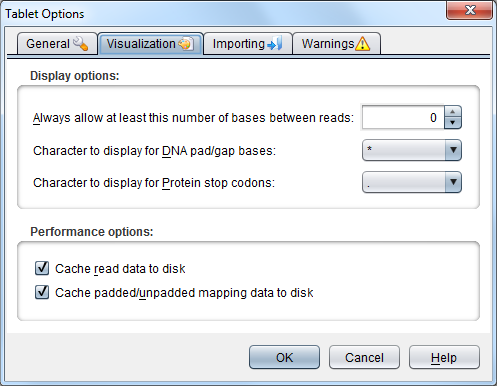
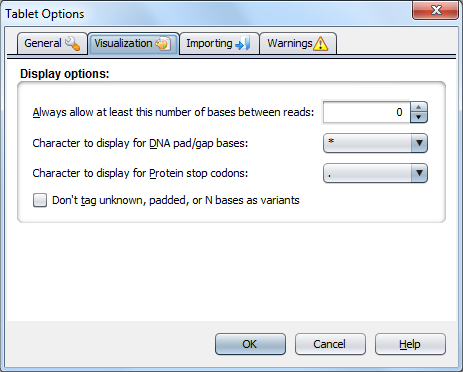
- NEW: Added a new option (in the Options dialog) to allow the user to switch off variant tagging/highlighting for unknown, padded, or N bases. - NEW: Updated the help documentation for the Tablet Options to include details on this new option and also to refresh the screenshots.

Changed region(s): [[0.0, 0.0, 0.9978, 0.9758], [0.4536, 0.8871, 0.9676, 0.9758]]

diff --git a/src/tablet/gui/dialog/prefs/VisualizationTabNB.java b/src/tablet/gui/dialog/prefs/VisualizationTabNB.java
@@ -28,6 +28,7 @@ class VisualizationTabNB extends JPanel
 		RB.setText(dnaLabel, "gui.dialog.prefs.NBVisualizationPanel.dnaLabel");
 		RB.setText(proteinLabel, "gui.dialog.prefs.NBVisualizationPanel.proteinLabel");
 		RB.setText(padLabel, "gui.dialog.prefs.NBVisualizationPanel.padLabel");
+		RB.setText(tagCheckbox, "gui.dialog.prefs.NBVisualizationPanel.tagCheckbox");
 
 		dnaModel = new DefaultComboBoxModel<String>();
         dnaModel.addElement("*");
@@ -43,17 +44,8 @@ class VisualizationTabNB extends JPanel
 
 		padSpinner.getModel().setValue(Prefs.visPadReads);
 
-
-		// Bottom panel
-		panel2.setBackground(Color.white);
-		panel2.setBorder(BorderFactory.createTitledBorder(RB.getString("gui.dialog.prefs.NBVisualizationPanel.panel2Title")));
-
-		RB.setText(cacheReads, "gui.dialog.prefs.NBVisualizationPanel.cacheReads");
-		RB.setText(cacheMappings, "gui.dialog.prefs.NBVisualizationPanel.cacheMappings");
-
-		cacheReads.setSelected(Prefs.cacheReads);
-		cacheMappings.setSelected(Prefs.cacheMappings);
-
+		tagCheckbox.setSelected(Prefs.visNeverTagUnknownBases);
+		tagCheckbox.setBorder(BorderFactory.createEmptyBorder(0, -2, 0, 0));
     }
 
 	public void applySettings()
@@ -61,9 +53,7 @@ class VisualizationTabNB extends JPanel
 		Prefs.visPadCharType = dnaCombo.getSelectedIndex();
 		Prefs.visStopCharType = proteinCombo.getSelectedIndex();
 		Prefs.visPadReads = (Integer) padSpinner.getModel().getValue();
-
-		Prefs.cacheReads = cacheReads.isSelected();
-		Prefs.cacheMappings = cacheMappings.isSelected();
+		Prefs.visNeverTagUnknownBases = tagCheckbox.isSelected();
 
 		// This will force the visualization area to recreate its color schemes
 		// which will change the rendered characters to their new states
@@ -86,9 +76,7 @@ class VisualizationTabNB extends JPanel
         proteinCombo = new javax.swing.JComboBox<String>();
         padSpinner = new javax.swing.JSpinner();
         padLabel = new javax.swing.JLabel();
-        panel2 = new javax.swing.JPanel();
-        cacheReads = new javax.swing.JCheckBox();
-        cacheMappings = new javax.swing.JCheckBox();
+        tagCheckbox = new javax.swing.JCheckBox();
 
         panel1.setBorder(javax.swing.BorderFactory.createTitledBorder("Display options:"));
 
@@ -103,6 +91,8 @@ class VisualizationTabNB extends JPanel
         padLabel.setLabelFor(padSpinner);
         padLabel.setText("Allow at least the following base gap between reads:");
 
+        tagCheckbox.setText("Dont' tag unknown, padded, or N bases as variants");
+
         javax.swing.GroupLayout panel1Layout = new javax.swing.GroupLayout(panel1);
         panel1.setLayout(panel1Layout);
         panel1Layout.setHorizontalGroup(
@@ -110,58 +100,36 @@ class VisualizationTabNB extends JPanel
             .addGroup(panel1Layout.createSequentialGroup()
                 .addContainerGap()
                 .addGroup(panel1Layout.createParallelGroup(javax.swing.GroupLayout.Alignment.LEADING)
-                    .addComponent(padLabel)
-                    .addComponent(proteinLabel)
-                    .addComponent(dnaLabel))
-                .addPreferredGap(javax.swing.LayoutStyle.ComponentPlacement.RELATED)
-                .addGroup(panel1Layout.createParallelGroup(javax.swing.GroupLayout.Alignment.LEADING)
-                    .addComponent(proteinCombo, javax.swing.GroupLayout.Alignment.TRAILING, 0, 67, Short.MAX_VALUE)
-                    .addComponent(dnaCombo, javax.swing.GroupLayout.Alignment.TRAILING, 0, 67, Short.MAX_VALUE)
-                    .addComponent(padSpinner, javax.swing.GroupLayout.DEFAULT_SIZE, 67, Short.MAX_VALUE))
+                    .addComponent(tagCheckbox)
+                    .addGroup(panel1Layout.createSequentialGroup()
+                        .addGroup(panel1Layout.createParallelGroup(javax.swing.GroupLayout.Alignment.LEADING)
+                            .addComponent(padLabel)
+                            .addComponent(proteinLabel)
+                            .addComponent(dnaLabel))
+                        .addPreferredGap(javax.swing.LayoutStyle.ComponentPlacement.RELATED)
+                        .addGroup(panel1Layout.createParallelGroup(javax.swing.GroupLayout.Alignment.LEADING)
+                            .addComponent(padSpinner, javax.swing.GroupLayout.Alignment.TRAILING, javax.swing.GroupLayout.DEFAULT_SIZE, 105, Short.MAX_VALUE)
+                            .addComponent(dnaCombo, javax.swing.GroupLayout.Alignment.TRAILING, 0, 105, Short.MAX_VALUE)
+                            .addComponent(proteinCombo, javax.swing.GroupLayout.Alignment.TRAILING, 0, 105, Short.MAX_VALUE))))
                 .addContainerGap())
         );
         panel1Layout.setVerticalGroup(
             panel1Layout.createParallelGroup(javax.swing.GroupLayout.Alignment.LEADING)
             .addGroup(panel1Layout.createSequentialGroup()
                 .addContainerGap()
-                .addGroup(panel1Layout.createParallelGroup(javax.swing.GroupLayout.Alignment.BASELINE)
+                .addGroup(panel1Layout.createParallelGroup(javax.swing.GroupLayout.Alignment.CENTER)
                     .addComponent(padSpinner, javax.swing.GroupLayout.PREFERRED_SIZE, javax.swing.GroupLayout.DEFAULT_SIZE, javax.swing.GroupLayout.PREFERRED_SIZE)
                     .addComponent(padLabel))
                 .addPreferredGap(javax.swing.LayoutStyle.ComponentPlacement.RELATED)
-                .addGroup(panel1Layout.createParallelGroup(javax.swing.GroupLayout.Alignment.BASELINE)
-                    .addComponent(dnaLabel)
-                    .addComponent(dnaCombo, javax.swing.GroupLayout.PREFERRED_SIZE, javax.swing.GroupLayout.DEFAULT_SIZE, javax.swing.GroupLayout.PREFERRED_SIZE))
+                .addGroup(panel1Layout.createParallelGroup(javax.swing.GroupLayout.Alignment.CENTER)
+                    .addComponent(dnaCombo, javax.swing.GroupLayout.PREFERRED_SIZE, javax.swing.GroupLayout.DEFAULT_SIZE, javax.swing.GroupLayout.PREFERRED_SIZE)
+                    .addComponent(dnaLabel))
                 .addPreferredGap(javax.swing.LayoutStyle.ComponentPlacement.RELATED)
-                .addGroup(panel1Layout.createParallelGroup(javax.swing.GroupLayout.Alignment.BASELINE)
-                    .addComponent(proteinLabel)
-                    .addComponent(proteinCombo, javax.swing.GroupLayout.PREFERRED_SIZE, javax.swing.GroupLayout.DEFAULT_SIZE, javax.swing.GroupLayout.PREFERRED_SIZE))
-                .addContainerGap(javax.swing.GroupLayout.DEFAULT_SIZE, Short.MAX_VALUE))
-        );
-
-        panel2.setBorder(javax.swing.BorderFactory.createTitledBorder("Performance options:"));
-
-        cacheReads.setText("Cache read data to disk");
-
-        cacheMappings.setText("Cache padded/unpadded mapping data to disk");
-
-        javax.swing.GroupLayout panel2Layout = new javax.swing.GroupLayout(panel2);
-        panel2.setLayout(panel2Layout);
-        panel2Layout.setHorizontalGroup(
-            panel2Layout.createParallelGroup(javax.swing.GroupLayout.Alignment.LEADING)
-            .addGroup(panel2Layout.createSequentialGroup()
-                .addContainerGap()
-                .addGroup(panel2Layout.createParallelGroup(javax.swing.GroupLayout.Alignment.LEADING)
-                    .addComponent(cacheReads)
-                    .addComponent(cacheMappings))
-                .addContainerGap(90, Short.MAX_VALUE))
-        );
-        panel2Layout.setVerticalGroup(
-            panel2Layout.createParallelGroup(javax.swing.GroupLayout.Alignment.LEADING)
-            .addGroup(panel2Layout.createSequentialGroup()
-                .addContainerGap()
-                .addComponent(cacheReads)
+                .addGroup(panel1Layout.createParallelGroup(javax.swing.GroupLayout.Alignment.CENTER)
+                    .addComponent(proteinCombo, javax.swing.GroupLayout.PREFERRED_SIZE, javax.swing.GroupLayout.DEFAULT_SIZE, javax.swing.GroupLayout.PREFERRED_SIZE)
+                    .addComponent(proteinLabel))
                 .addPreferredGap(javax.swing.LayoutStyle.ComponentPlacement.RELATED)
-                .addComponent(cacheMappings)
+                .addComponent(tagCheckbox)
                 .addContainerGap(javax.swing.GroupLayout.DEFAULT_SIZE, Short.MAX_VALUE))
         );
 
@@ -169,11 +137,9 @@ class VisualizationTabNB extends JPanel
         this.setLayout(layout);
         layout.setHorizontalGroup(
             layout.createParallelGroup(javax.swing.GroupLayout.Alignment.LEADING)
-            .addGroup(javax.swing.GroupLayout.Alignment.TRAILING, layout.createSequentialGroup()
+            .addGroup(layout.createSequentialGroup()
                 .addContainerGap()
-                .addGroup(layout.createParallelGroup(javax.swing.GroupLayout.Alignment.TRAILING)
-                    .addComponent(panel2, javax.swing.GroupLayout.Alignment.LEADING, javax.swing.GroupLayout.DEFAULT_SIZE, javax.swing.GroupLayout.DEFAULT_SIZE, Short.MAX_VALUE)
-                    .addComponent(panel1, javax.swing.GroupLayout.Alignment.LEADING, javax.swing.GroupLayout.DEFAULT_SIZE, javax.swing.GroupLayout.DEFAULT_SIZE, Short.MAX_VALUE))
+                .addComponent(panel1, javax.swing.GroupLayout.DEFAULT_SIZE, javax.swing.GroupLayout.DEFAULT_SIZE, Short.MAX_VALUE)
                 .addContainerGap())
         );
         layout.setVerticalGroup(
@@ -181,22 +147,18 @@ class VisualizationTabNB extends JPanel
             .addGroup(layout.createSequentialGroup()
                 .addContainerGap()
                 .addComponent(panel1, javax.swing.GroupLayout.PREFERRED_SIZE, javax.swing.GroupLayout.DEFAULT_SIZE, javax.swing.GroupLayout.PREFERRED_SIZE)
-                .addPreferredGap(javax.swing.LayoutStyle.ComponentPlacement.RELATED)
-                .addComponent(panel2, javax.swing.GroupLayout.DEFAULT_SIZE, javax.swing.GroupLayout.DEFAULT_SIZE, Short.MAX_VALUE)
-                .addContainerGap())
+                .addContainerGap(javax.swing.GroupLayout.DEFAULT_SIZE, Short.MAX_VALUE))
         );
     }// </editor-fold>//GEN-END:initComponents
 
     // Variables declaration - do not modify//GEN-BEGIN:variables
-    private javax.swing.JCheckBox cacheMappings;
-    private javax.swing.JCheckBox cacheReads;
     private javax.swing.JComboBox<String> dnaCombo;
     private javax.swing.JLabel dnaLabel;
     private javax.swing.JLabel padLabel;
     private javax.swing.JSpinner padSpinner;
     private javax.swing.JPanel panel1;
-    private javax.swing.JPanel panel2;
     private javax.swing.JComboBox<String> proteinCombo;
     private javax.swing.JLabel proteinLabel;
+    private javax.swing.JCheckBox tagCheckbox;
     // End of variables declaration//GEN-END:variables
 }

diff --git a/src/tablet/gui/dialog/prefs/GeneralTabNB.java b/src/tablet/gui/dialog/prefs/GeneralTabNB.java
@@ -28,7 +28,6 @@ class GeneralTabNB extends JPanel implements ActionListener
 		// Interface settings
 		generalPanel.setBorder(BorderFactory.createTitledBorder(RB.getString("gui.dialog.prefs.NBGeneralPanel.generalPanelTitle")));
 		RB.setText(displayLabel, "gui.dialog.prefs.NBGeneralPanel.displayLabel");
-		RB.setText(displayHint, "gui.dialog.prefs.NBGeneralPanel.displayHint");
 
         displayModel = new DefaultComboBoxModel<String>();
         displayModel.addElement(RB.getString("gui.dialog.prefs.NBGeneralPanel.auto"));
@@ -105,21 +104,18 @@ class GeneralTabNB extends JPanel implements ActionListener
         updateCombo = new javax.swing.JComboBox<String>();
         displayLabel = new javax.swing.JLabel();
         updateLabel = new javax.swing.JLabel();
-        displayHint = new javax.swing.JLabel();
         cachePanel = new javax.swing.JPanel();
         cacheLabel = new javax.swing.JLabel();
         cacheField = new javax.swing.JTextField();
         bBrowse = new javax.swing.JButton();
 
-        generalPanel.setBorder(javax.swing.BorderFactory.createTitledBorder("General options:"));
+        generalPanel.setBorder(javax.swing.BorderFactory.createTitledBorder("General options (restart to apply):"));
 
         displayLabel.setLabelFor(displayCombo);
         displayLabel.setText("Interface display language:");
 
         updateLabel.setLabelFor(updateCombo);
         updateLabel.setText("Check for newer Tablet versions:");
-
-        displayHint.setText("(Restart Tablet to apply)");
 
         javax.swing.GroupLayout generalPanelLayout = new javax.swing.GroupLayout(generalPanel);
         generalPanel.setLayout(generalPanelLayout);
@@ -132,9 +128,8 @@ class GeneralTabNB extends JPanel implements ActionListener
                     .addComponent(updateLabel))
                 .addPreferredGap(javax.swing.LayoutStyle.ComponentPlacement.RELATED)
                 .addGroup(generalPanelLayout.createParallelGroup(javax.swing.GroupLayout.Alignment.LEADING)
-                    .addComponent(updateCombo, 0, 215, Short.MAX_VALUE)
-                    .addComponent(displayHint)
-                    .addComponent(displayCombo, 0, 215, Short.MAX_VALUE))
+                    .addComponent(displayCombo, 0, 217, Short.MAX_VALUE)
+                    .addComponent(updateCombo, 0, 217, Short.MAX_VALUE))
                 .addContainerGap())
         );
         generalPanelLayout.setVerticalGroup(
@@ -145,8 +140,6 @@ class GeneralTabNB extends JPanel implements ActionListener
                     .addComponent(displayLabel)
                     .addComponent(displayCombo, javax.swing.GroupLayout.PREFERRED_SIZE, javax.swing.GroupLayout.DEFAULT_SIZE, javax.swing.GroupLayout.PREFERRED_SIZE))
                 .addPreferredGap(javax.swing.LayoutStyle.ComponentPlacement.RELATED)
-                .addComponent(displayHint)
-                .addPreferredGap(javax.swing.LayoutStyle.ComponentPlacement.UNRELATED)
                 .addGroup(generalPanelLayout.createParallelGroup(javax.swing.GroupLayout.Alignment.BASELINE)
                     .addComponent(updateLabel)
                     .addComponent(updateCombo, javax.swing.GroupLayout.PREFERRED_SIZE, javax.swing.GroupLayout.DEFAULT_SIZE, javax.swing.GroupLayout.PREFERRED_SIZE))
@@ -203,8 +196,8 @@ class GeneralTabNB extends JPanel implements ActionListener
                 .addContainerGap()
                 .addComponent(generalPanel, javax.swing.GroupLayout.PREFERRED_SIZE, javax.swing.GroupLayout.DEFAULT_SIZE, javax.swing.GroupLayout.PREFERRED_SIZE)
                 .addPreferredGap(javax.swing.LayoutStyle.ComponentPlacement.RELATED)
-                .addComponent(cachePanel, javax.swing.GroupLayout.DEFAULT_SIZE, javax.swing.GroupLayout.DEFAULT_SIZE, Short.MAX_VALUE)
-                .addContainerGap())
+                .addComponent(cachePanel, javax.swing.GroupLayout.PREFERRED_SIZE, javax.swing.GroupLayout.DEFAULT_SIZE, javax.swing.GroupLayout.PREFERRED_SIZE)
+                .addContainerGap(javax.swing.GroupLayout.DEFAULT_SIZE, Short.MAX_VALUE))
         );
     }// </editor-fold>//GEN-END:initComponents
 
@@ -214,7 +207,6 @@ class GeneralTabNB extends JPanel implements ActionListener
     private javax.swing.JLabel cacheLabel;
     private javax.swing.JPanel cachePanel;
     private javax.swing.JComboBox<String> displayCombo;
-    private javax.swing.JLabel displayHint;
     private javax.swing.JLabel displayLabel;
     private javax.swing.JPanel generalPanel;
     private javax.swing.JComboBox<String> updateCombo;

diff --git a/src/tablet/gui/dialog/prefs/FormatsTabNB.java b/src/tablet/gui/dialog/prefs/FormatsTabNB.java
@@ -140,7 +140,7 @@ class FormatsTabNB extends JPanel implements ActionListener
                 .addContainerGap()
                 .addComponent(stLabel1)
                 .addPreferredGap(javax.swing.LayoutStyle.ComponentPlacement.RELATED)
-                .addGroup(panel2Layout.createParallelGroup(javax.swing.GroupLayout.Alignment.BASELINE)
+                .addGroup(panel2Layout.createParallelGroup(javax.swing.GroupLayout.Alignment.CENTER)
                     .addComponent(stPath, javax.swing.GroupLayout.PREFERRED_SIZE, javax.swing.GroupLayout.DEFAULT_SIZE, javax.swing.GroupLayout.PREFERRED_SIZE)
                     .addComponent(bBrowse))
                 .addPreferredGap(javax.swing.LayoutStyle.ComponentPlacement.RELATED)
@@ -166,7 +166,7 @@ class FormatsTabNB extends JPanel implements ActionListener
                 .addComponent(panel1, javax.swing.GroupLayout.PREFERRED_SIZE, javax.swing.GroupLayout.DEFAULT_SIZE, javax.swing.GroupLayout.PREFERRED_SIZE)
                 .addPreferredGap(javax.swing.LayoutStyle.ComponentPlacement.RELATED)
                 .addComponent(panel2, javax.swing.GroupLayout.PREFERRED_SIZE, javax.swing.GroupLayout.DEFAULT_SIZE, javax.swing.GroupLayout.PREFERRED_SIZE)
-                .addContainerGap(23, Short.MAX_VALUE))
+                .addContainerGap(javax.swing.GroupLayout.DEFAULT_SIZE, Short.MAX_VALUE))
         );
     }// </editor-fold>//GEN-END:initComponents
 

diff --git a/src/tablet/gui/viewer/colors/Stamp.java b/src/tablet/gui/viewer/colors/Stamp.java
@@ -6,6 +6,9 @@ package tablet.gui.viewer.colors;
 import java.awt.*;
 import java.awt.image.*;
 
+import tablet.data.*;
+import tablet.gui.*;
+
 abstract class Stamp
 {
 	// AWT representation of this color
@@ -29,4 +32,16 @@ abstract class Stamp
 
 	public Color getColor()
 		{ return color; }
+
+
+	// Special case for ?, *, or N characters (when deltas) that decides whether
+	// they should be in red or not based on the user's settings
+	protected boolean displayInRed(String text)
+	{
+		if (text.equals("?") || text.equals(Sequence.PAD) || text.equals("N"))
+			return (Prefs.visNeverTagUnknownBases == false);
+
+		// All other delta bases should always be in red
+		return true;
+	}
 }

diff --git a/src/tablet/gui/viewer/colors/ColorStamp.java b/src/tablet/gui/viewer/colors/ColorStamp.java
@@ -28,7 +28,7 @@ class ColorStamp extends Stamp
 		if (useAlpha)
 		{
 			// Overlay for bases that are different from the consensus
-			if (isDeltaBase)
+			if (isDeltaBase && displayInRed(text))
 			{
 				g.setPaint(new Color(255, 255, 255, 130));
 				if (Prefs.visTagVariants)
@@ -50,7 +50,8 @@ class ColorStamp extends Stamp
 			Rectangle2D bounds = fm.getStringBounds(text, g);
 
 			g.setRenderingHint(RenderingHints.KEY_ANTIALIASING, RenderingHints.VALUE_ANTIALIAS_ON);
-			if (isDeltaBase)
+
+			if (isDeltaBase && displayInRed(text))
 				g.setColor(Color.red);
 			else
 				g.setColor(Color.black);

diff --git a/src/tablet/gui/viewer/colors/GrayscaleStamp.java b/src/tablet/gui/viewer/colors/GrayscaleStamp.java
@@ -25,7 +25,7 @@ class GrayscaleStamp extends Stamp
 		if (useAlpha)
 		{
 			// Overlay for bases that are different from the consensus
-			if (isDeltaBase)
+			if (isDeltaBase && displayInRed(text))
 			{
 				g.setPaint(new Color(255, 255, 255, 130));
 				if (Prefs.visTagVariants)
@@ -45,7 +45,7 @@ class GrayscaleStamp extends Stamp
 		Rectangle2D bounds = fm.getStringBounds(text, g);
 
 		g.setRenderingHint(RenderingHints.KEY_ANTIALIASING, RenderingHints.VALUE_ANTIALIAS_ON);
-		if (isDeltaBase)
+		if (isDeltaBase && displayInRed(text))
 			g.setColor(Color.red);
 		else
 			g.setColor(Color.black);

diff --git a/src/tablet/gui/Prefs.java b/src/tablet/gui/Prefs.java
@@ -132,6 +132,9 @@ public class Prefs extends XMLPreferences
 	public static int visPadCharType = 0;
 	public static int visStopCharType = 0;
 
+	// True if ?, *, N characters should *not* be marked up in red as variants
+	public static boolean visNeverTagUnknownBases = false;
+
 	public static boolean visOverlayNames = false;
 
 	public static boolean guiFindPanelSearchCurrentContig = true;

diff --git a/src/tablet/gui/Nimbus.java b/src/tablet/gui/Nimbus.java
@@ -28,6 +28,7 @@ class Nimbus
 		UIManager.put("Button[Enabled].font", FONT);
 		UIManager.put("ToggleButton[Enabled].font", FONT);
 		UIManager.put("TextField[Enabled].font", FONT);
+		UIManager.put("CheckBox[Enabled].font", FONT);
 
 		for (UIManager.LookAndFeelInfo laf : UIManager.getInstalledLookAndFeels())
 			if (laf.getName().equals("Nimbus"))
